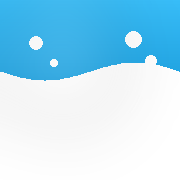
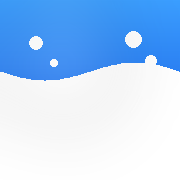
首页：累计游距/总用时改为「进步情况分析」(进步/退步次数+平均进步率+最近趋势)；配色改为现代蓝主调(冷蓝白背景/海军蓝文字)，图标换现代蓝渐变；资源与SW版本升v7

diff --git a/app.js b/app.js
@@ -536,8 +536,9 @@ const PageHome = {
         const totalTime = records.reduce((s, r) => s + r.timeMs, 0);
 
         document.getElementById('home-total-count').textContent = totalCount;
-        document.getElementById('home-total-distance').innerHTML = `${Utils.mToKm(totalDistance)}<span class="stat-unit">km</span>`;
-        document.getElementById('home-total-time').innerHTML = `${Utils.msToHours(totalTime)}<span class="stat-unit">h</span>`;
+
+        // 进步情况分析
+        this.renderProgressOverview(records);
 
         // 本月统计
         const now = new Date();
@@ -557,6 +558,107 @@ const PageHome = {
 
         // 最近记录
         this.renderRecent(records);
+    },
+
+    computeProgressOverview(records) {
+        const groups = {};
+        records.forEach(r => {
+            const key = r.stroke + '|' + r.distance;
+            (groups[key] = groups[key] || []).push(r);
+        });
+        // 按 日期+创建顺序 升序排序的辅助
+        const sortByDate = arr => arr.slice().sort((a, b) =>
+            a.date === b.date ? (a.createdAt || 0) - (b.createdAt || 0) : a.date.localeCompare(b.date));
+
+        let improve = 0, regress = 0, same = 0, rateSum = 0, rateCount = 0;
+
+        Object.values(groups).forEach(g => {
+            const s = sortByDate(g);
+            if (s.length < 2) return;
+            const prev = s[s.length - 2], latest = s[s.length - 1];
+            const diff = latest.timeMs - prev.timeMs; // 用时减少 = 进步
+            if (diff < 0) {
+                improve++;
+                if (prev.timeMs > 0) { rateSum += Math.abs(diff) / prev.timeMs * 100; rateCount++; }
+            } else if (diff > 0) {
+                regress++;
+            } else {
+                same++;
+            }
+        });
+
+        const avgRate = rateCount > 0 ? rateSum / rateCount : 0;
+
+        // 最近一条记录的同项趋势
+        const allSorted = sortByDate(records);
+        let lastTrend = null;
+        if (allSorted.length >= 2) {
+            const latest = allSorted[allSorted.length - 1];
+            const g = sortByDate(groups[latest.stroke + '|' + latest.distance] || []);
+            if (g.length >= 2) {
+                const prev = g[g.length - 2];
+                const diff = latest.timeMs - prev.timeMs;
+                const rate = prev.timeMs > 0 ? Math.abs(diff) / prev.timeMs * 100 : 0;
+                const t = Utils.msToTime(Math.abs(diff));
+                if (diff < 0) lastTrend = { type: 'improve', rate, stroke: latest.stroke, distance: latest.distance, t };
+                else if (diff > 0) lastTrend = { type: 'regress', rate, stroke: latest.stroke, distance: latest.distance, t };
+                else lastTrend = { type: 'same', stroke: latest.stroke, distance: latest.distance };
+            }
+        }
+        return { improve, regress, same, avgRate, lastTrend, series: improve + regress + same };
+    },
+
+    renderProgressOverview(records) {
+        const el = document.getElementById('home-progress-overview');
+        if (!el) return;
+
+        if (records.length < 2) {
+            el.innerHTML = `<div class="progress-ov-empty">记录达到 2 条后，这里会显示你的进步情况分析 📈</div>`;
+            return;
+        }
+
+        const s = this.computeProgressOverview(records);
+        const rateTxt = s.avgRate.toFixed(1) + '%';
+        const overallUp = s.improve >= s.regress;
+
+        let summary = '';
+        if (s.lastTrend) {
+            const t = s.lastTrend;
+            if (t.type === 'improve') {
+                summary = `<div class="progress-ov-summary">
+                    <span class="progress-arrow improve"><svg viewBox="0 0 24 24" width="18" height="18" fill="none" stroke="currentColor" stroke-width="2.5"><path d="M12 19V5M5 12l7-7 7 7"/></svg></span>
+                    <span>最近一次 <b>${t.stroke} ${t.distance}m</b> 进步 ${t.rate.toFixed(1)}% ↑（快了 ${t.t.main}.${t.t.ms}）</span>
+                </div>`;
+            } else if (t.type === 'regress') {
+                summary = `<div class="progress-ov-summary">
+                    <span class="progress-arrow regress"><svg viewBox="0 0 24 24" width="18" height="18" fill="none" stroke="currentColor" stroke-width="2.5"><path d="M12 5v14M5 12l7 7 7-7"/></svg></span>
+                    <span>最近一次 <b>${t.stroke} ${t.distance}m</b> 退步 ${t.rate.toFixed(1)}% ↓（慢了 ${t.t.main}.${t.t.ms}）</span>
+                </div>`;
+            } else {
+                summary = `<div class="progress-ov-summary">
+                    <span class="progress-arrow same"><svg viewBox="0 0 24 24" width="16" height="16" fill="none" stroke="currentColor" stroke-width="2.5"><path d="M5 12h14"/></svg></span>
+                    <span>最近一次 <b>${t.stroke} ${t.distance}m</b> 成绩持平</span>
+                </div>`;
+            }
+        }
+
+        el.innerHTML = `
+            <div class="progress-ov-grid">
+                <div class="progress-ov-item">
+                    <div class="progress-ov-value improve">${s.improve}</div>
+                    <div class="progress-ov-label">进步次数</div>
+                </div>
+                <div class="progress-ov-item">
+                    <div class="progress-ov-value regress">${s.regress}</div>
+                    <div class="progress-ov-label">退步次数</div>
+                </div>
+                <div class="progress-ov-item">
+                    <div class="progress-ov-value ${overallUp ? 'improve' : 'regress'}">${rateTxt}</div>
+                    <div class="progress-ov-label">平均进步率</div>
+                </div>
+            </div>
+            ${summary}
+        `;
     },
 
     renderBestCards(records) {

diff --git a/styles.css b/styles.css
@@ -3,21 +3,21 @@
  * 明亮配色 · 圆润大圆角 · 卡通字体 · 动物化泳姿
  * ============================================================ */
 
-/* ==================== 卡通配色变量 ==================== */
+/* ==================== 现代蓝调配色变量 ==================== */
 :root {
-    /* 主色：天空蓝（海豚 / 自由泳） */
-    --sky: #38BDF8;
-    --sky-deep: #0EA5E9;
-    --sky-bg: #E0F2FE;
-    /* 蛙泳绿 */
-    --mint: #34D399;
-    --mint-bg: #D1FAE5;
-    /* 仰泳橙（水獭） */
-    --coral: #FB923C;
-    --coral-bg: #FFEDD5;
-    /* 蝶泳紫（蝴蝶） */
-    --grape: #A78BFA;
-    --grape-bg: #EDE9FE;
+    /* 主色：现代蓝（海豚 / 自由泳） */
+    --sky: #2E9BFF;
+    --sky-deep: #1457E6;
+    --sky-bg: #E8F3FF;
+    /* 蛙泳青绿（teal） */
+    --mint: #2DD4BF;
+    --mint-bg: #D7FAF5;
+    /* 仰泳珊瑚粉（现代粉调） */
+    --coral: #FB7185;
+    --coral-bg: #FFE8EC;
+    /* 蝶泳紫罗兰（violet） */
+    --grape: #8B5CF6;
+    --grape-bg: #EDE7FF;
     /* 混合泳玫红（全能） */
     --rose: #F472B6;
     --rose-bg: #FCE7F3;
@@ -25,20 +25,20 @@
     --sun: #FBBF24;
     --pink: #F472B6;
 
-    /* 背景与文字 */
-    --cream: #FFF8EE;
+    /* 背景与文字：冷调蓝白 */
+    --cream: #F1F7FF;
     --card: #FFFFFF;
-    --ink: #4A3B2A;
-    --ink-soft: #8B7A66;
-    --ink-faint: #B6A692;
-    --line: #F1E6D8;
-    --line-soft: #FBF3E9;
+    --ink: #102A43;
+    --ink-soft: #5B7290;
+    --ink-faint: #94A7BD;
+    --line: #E3EEFB;
+    --line-soft: #F0F7FE;
 
-    /* 阴影（柔和彩色） */
-    --shadow-sm: 0 2px 8px rgba(74, 59, 42, 0.06);
-    --shadow-md: 0 8px 22px rgba(56, 189, 248, 0.14);
-    --shadow-lg: 0 14px 36px rgba(56, 189, 248, 0.22);
-    --shadow-warm: 0 10px 26px rgba(251, 146, 60, 0.18);
+    /* 阴影（柔和蓝色调） */
+    --shadow-sm: 0 2px 8px rgba(16, 42, 67, 0.06);
+    --shadow-md: 0 8px 22px rgba(46, 155, 255, 0.16);
+    --shadow-lg: 0 14px 36px rgba(46, 155, 255, 0.24);
+    --shadow-warm: 0 10px 26px rgba(251, 113, 133, 0.18);
 
     /* 圆角 */
     --r-sm: 12px;
@@ -60,7 +60,7 @@
     /* 兼容别名（供 JS 内联样式引用，避免旧变量名失效） */
     --gold: #FBBF24;
     --gold-bg: #FEF3C7;
-    --border-light: #F1E6D8;
+    --border-light: #E3EEFB;
     --primary-bg: var(--sky-bg);
     --primary: var(--sky);
     --green-bg: var(--mint-bg);
@@ -103,7 +103,7 @@ html, body {
     background: var(--cream);
 }
 
-/* 卡通背景：天空 → 水面奶油渐变 + 气泡点阵 */
+/* 现代背景：蓝调极光渐变 + 气泡点阵 */
 body::before {
     content: "";
     position: fixed;
@@ -111,12 +111,12 @@ body::before {
     z-index: 0;
     pointer-events: none;
     background:
-        radial-gradient(circle at 12% 18%, rgba(56,189,248,0.10) 0 7px, transparent 8px),
-        radial-gradient(circle at 82% 12%, rgba(167,139,250,0.12) 0 9px, transparent 10px),
-        radial-gradient(circle at 70% 32%, rgba(251,146,60,0.10) 0 6px, transparent 7px),
-        radial-gradient(circle at 25% 55%, rgba(52,211,153,0.10) 0 8px, transparent 9px),
-        radial-gradient(circle at 90% 62%, rgba(56,189,248,0.09) 0 7px, transparent 8px),
-        linear-gradient(180deg, #CDEBFF 0%, #E7F6FF 22%, var(--cream) 46%);
+        radial-gradient(circle at 15% 12%, rgba(46,155,255,0.18) 0 9px, transparent 10px),
+        radial-gradient(circle at 85% 16%, rgba(139,92,246,0.16) 0 11px, transparent 12px),
+        radial-gradient(circle at 72% 38%, rgba(45,212,191,0.13) 0 8px, transparent 9px),
+        radial-gradient(circle at 22% 58%, rgba(46,155,255,0.13) 0 9px, transparent 10px),
+        radial-gradient(circle at 92% 66%, rgba(244,114,182,0.10) 0 7px, transparent 8px),
+        linear-gradient(180deg, #DCEEFF 0%, #EAF5FF 28%, var(--cream) 54%);
 }
 
 #app {
@@ -316,6 +316,52 @@ body::before {
 .stat-value { font-family: var(--font-fun); font-size: 24px; font-weight: 400; color: var(--ink); line-height: 1.1; }
 .stat-unit { font-size: 12px; color: var(--ink-soft); margin-left: 1px; }
 .stat-label { font-size: 11px; color: var(--ink-soft); margin-top: 3px; font-weight: 600; }
+.stat-card-wide { flex: 1; }
+
+/* 进步情况分析（首页） */
+.progress-overview { padding: 2px 2px 4px; }
+.progress-ov-grid {
+    display: flex;
+    gap: 10px;
+    margin-bottom: 12px;
+}
+.progress-ov-item {
+    flex: 1;
+    text-align: center;
+    background: var(--card);
+    border: 1.5px solid var(--line);
+    border-radius: var(--r-md);
+    padding: 14px 6px 11px;
+    box-shadow: var(--shadow-sm);
+}
+.progress-ov-value {
+    font-family: var(--font-fun);
+    font-size: 26px;
+    font-weight: 400;
+    line-height: 1.1;
+    color: var(--ink);
+}
+.progress-ov-value.improve { color: #EF4444; }
+.progress-ov-value.regress { color: #22C55E; }
+.progress-ov-label { font-size: 11px; color: var(--ink-soft); margin-top: 4px; font-weight: 600; }
+.progress-ov-summary {
+    display: flex;
+    align-items: center;
+    gap: 9px;
+    background: var(--sky-bg);
+    border-radius: var(--r-md);
+    padding: 11px 13px;
+    font-size: 13px;
+    color: var(--ink);
+    line-height: 1.45;
+}
+.progress-ov-summary b { color: var(--sky-deep); }
+.progress-ov-empty {
+    text-align: center;
+    color: var(--ink-soft);
+    font-size: 13px;
+    padding: 18px 10px;
+}
 
 /* 本月统计 */
 .month-stats {

diff --git a/index.html b/index.html
@@ -18,8 +18,8 @@
     <meta name="apple-mobile-web-app-status-bar-style" content="default">
     <title>SwimTrack - 游泳成绩追踪</title>
     <!-- Chart.js 已本地自托管（vendor/chart.umd.min.js），不再依赖被墙的 CDN -->
-    <link rel="stylesheet" href="styles.css?v=6">
-    <script src="vendor/chart.umd.min.js?v=6"></script>
+    <link rel="stylesheet" href="styles.css?v=7">
+    <script src="vendor/chart.umd.min.js?v=7"></script>
 </head>
 <body>
     <div id="app">
@@ -95,26 +95,22 @@
                 <div class="page-content">
                     <!-- 核心数据卡片 -->
                     <section class="stats-cards">
-                        <div class="stat-card">
+                        <div class="stat-card stat-card-wide">
                             <div class="stat-icon stat-icon-blue">
                                 <svg viewBox="0 0 24 24" width="22" height="22" fill="none" stroke="currentColor" stroke-width="2"><path d="M2 12h20M2 6h20M2 18h20"/></svg>
                             </div>
                             <div class="stat-value" id="home-total-count">0</div>
                             <div class="stat-label">总游泳次数</div>
                         </div>
-                        <div class="stat-card">
-                            <div class="stat-icon stat-icon-green">
-                                <svg viewBox="0 0 24 24" width="22" height="22" fill="none" stroke="currentColor" stroke-width="2"><path d="M12 2v20M2 12h20"/></svg>
-                            </div>
-                            <div class="stat-value" id="home-total-distance">0<span class="stat-unit">km</span></div>
-                            <div class="stat-label">累计游距</div>
+                    </section>
+
+                    <!-- 进步情况分析 -->
+                    <section class="section-block">
+                        <div class="section-title">
+                            <h2>📈 进步情况分析</h2>
                         </div>
-                        <div class="stat-card">
-                            <div class="stat-icon stat-icon-orange">
-                                <svg viewBox="0 0 24 24" width="22" height="22" fill="none" stroke="currentColor" stroke-width="2"><circle cx="12" cy="12" r="10"/><path d="M12 6v6l4 2"/></svg>
-                            </div>
-                            <div class="stat-value" id="home-total-time">0<span class="stat-unit">h</span></div>
-                            <div class="stat-label">总用时</div>
+                        <div class="progress-overview" id="home-progress-overview">
+                            <!-- JS填充 -->
                         </div>
                     </section>
 
@@ -752,6 +748,6 @@
         </div>
 
     </div><!-- /app -->
-    <script src="app.js?v=6"></script>
+    <script src="app.js?v=7"></script>
 </body>
 </html>

diff --git a/sw.js b/sw.js
@@ -1,5 +1,5 @@
 // SwimTrack Service Worker —— 可「添加到主屏幕」并离线打开
-const CACHE = 'swimtrack-v6';
+const CACHE = 'swimtrack-v7';
 const APP_SHELL = [
     './',
     './index.html',

diff --git a/gen_icons.py b/gen_icons.py
@@ -8,8 +8,8 @@ OUT = "icons"
 def lerp(a, b, t):
     return tuple(int(a[i] + (b[i] - a[i]) * t) for i in range(3))
 
-TOP = (56, 189, 248)     # #38bdf8
-BOTTOM = (2, 132, 199)   # #0284c7
+TOP = (59, 158, 255)     # #3B9EFF 现代亮蓝
+BOTTOM = (20, 87, 230)    # #1457E6 深蓝
 WHITE = (255, 255, 255)
 
 def gradient(size):
